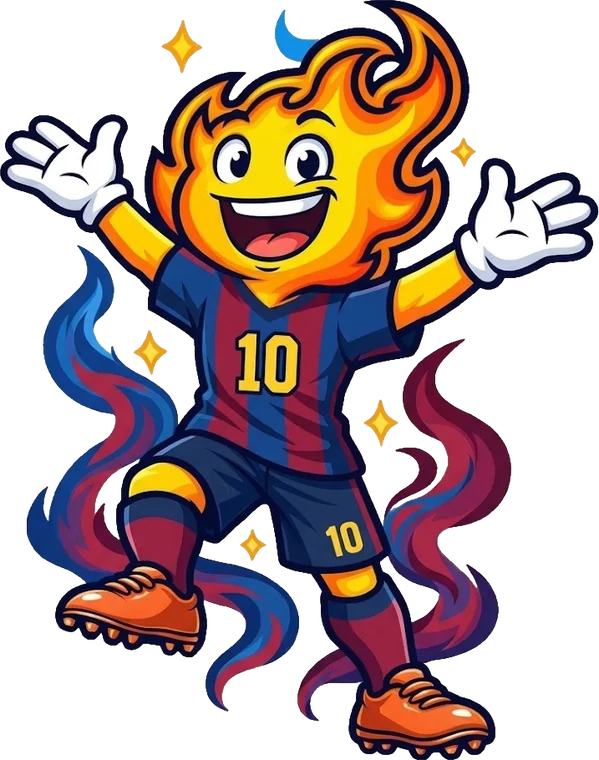
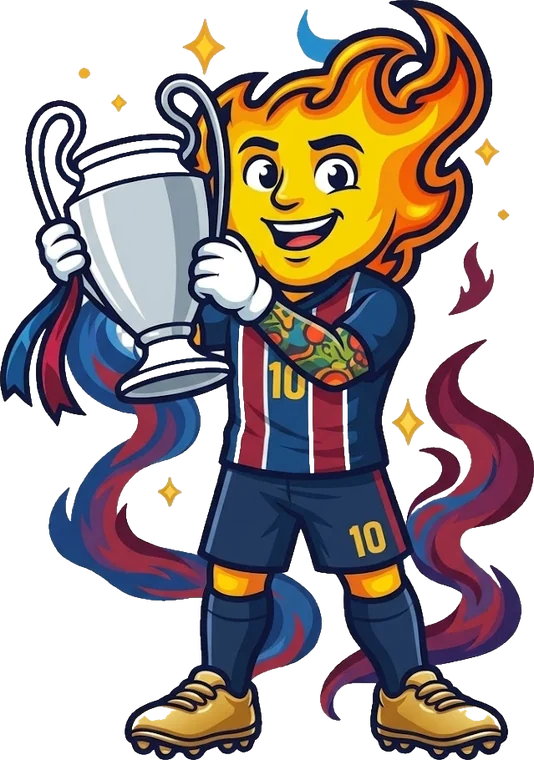
Square GOAT or BOAT board with a stop button, new M10 art and poster
Cards sit along the four edges of a square board (spare corners become badges). The light speeds up,
then the player presses DỪNG to slow it onto the prize the server already picked (auto-stop after 8 s).
New art for M10 Barca 2015 (trophy) and M10 Bernabéu, and a GOAT or BOAT poster with M10 and CR7.

Claude-Session: https://claude.ai/code/session_01Gdoir5WVcTCbakTzgkp26Z

diff --git a/public/cr7-event.js b/public/cr7-event.js
@@ -19,7 +19,7 @@ function listRewards(){
  d.querySelector('button').onclick=()=>d.close();d.showModal();
 }
 
-export function offerCr7(){const a=getAccount();if(!a||!isHome()||a.cr7Event?.seen||offered.has(a.id)||offering)return;offering=true;setTimeout(()=>{offering=false;const current=getAccount();if(current?.id!==a.id||!isHome())return;const opened=document.querySelector('dialog[open]');if(opened){opened.addEventListener('close',()=>setTimeout(offerCr7,300),{once:true});return;}offered.add(a.id);const d=dialog('cr7-poster');d.innerHTML=`<button class="cr7-close" aria-label="Đóng sự kiện">×</button><div class="cr7-poster-art"><img src="/assets/events/cr7-boat/cr7-boat-popup-preview.webp" alt="Bộ sưu tập CR7 B.O.A.T"></div><h2>${BOX_NAME} · Tặng bạn 1 lượt quay</h2><p>${goatTiles().length} ô, ô nào cũng như nhau<br>Lượt đầu miễn phí · Các lượt sau ${CR7_PRICE} coin</p><button class="cr7-gold" data-enter>Quay miễn phí →</button>`;d.querySelector('.cr7-close').onclick=()=>d.close();d.querySelector('[data-enter]').onclick=()=>{d.close();openCr7Pack();};d.showModal();performRequest({op:'seeCr7Event'}).catch(()=>{offered.delete(a.id);});},650);}
+export function offerCr7(){const a=getAccount();if(!a||!isHome()||a.cr7Event?.seen||offered.has(a.id)||offering)return;offering=true;setTimeout(()=>{offering=false;const current=getAccount();if(current?.id!==a.id||!isHome())return;const opened=document.querySelector('dialog[open]');if(opened){opened.addEventListener('close',()=>setTimeout(offerCr7,300),{once:true});return;}offered.add(a.id);const d=dialog('cr7-poster');d.innerHTML=`<button class="cr7-close" aria-label="Đóng sự kiện">×</button><div class="cr7-poster-art goat-poster"><img src="/assets/events/cr7-boat/goat-or-boat-poster.webp" alt="M10 và CR7 quay lưng vào nhau"><h2 class="goat-title">GOAT<small>or</small>BOAT</h2></div><h2>Tặng bạn 1 lượt quay</h2><p>${goatTiles().length} ô, ô nào cũng như nhau<br>Lượt đầu miễn phí · Các lượt sau ${CR7_PRICE} coin</p><button class="cr7-gold" data-enter>Quay miễn phí →</button>`;d.querySelector('.cr7-close').onclick=()=>d.close();d.querySelector('[data-enter]').onclick=()=>{d.close();openCr7Pack();};d.showModal();performRequest({op:'seeCr7Event'}).catch(()=>{offered.delete(a.id);});},650);}
 
 const idle=label=>`<b class="spin-logo">${label}</b>`;
 const stepCentre=id=>{const c=characterById(id);return `<img class="spin-peek" src="${stillArt(c)}" alt="" onerror="this.remove()"><em>${esc(c.name)}</em>`;};
@@ -27,37 +27,42 @@ const stepCentre=id=>{const c=characterById(id);return `<img class="spin-peek" s
 // Shared wheel dialog. mode: {title, sub, tiles, label, cost(account,receipt), canSpin, buttonText, request(receipt), storageKey, footnote, onDone}
 function wheelDialog(mode){
  const a=getAccount();if(!a||document.querySelector('.spin-dialog[open]'))return;
- const accountId=a.id,d=dialog('cr7-pack spin-dialog '+(mode.cls||''));let pending=false,receipt=null,result=null;
+ const accountId=a.id,d=dialog('cr7-pack spin-dialog '+(mode.cls||''));let pending=false,receipt=null,result=null,canStop=false,stopNow=null;
  if(mode.storageKey){try{receipt=JSON.parse(localStorage.getItem(mode.storageKey(accountId)));if(!mode.validReceipt(receipt))receipt=null;}catch{receipt=null;}}
  d.addEventListener('cancel',e=>{if(pending)e.preventDefault();});
- d.innerHTML=`<button class="cr7-close" aria-label="Đóng">×</button><small>${mode.eyebrow}</small><h2>${mode.title}</h2><p class="spin-sub">${mode.sub}</p>${wheelHTML(mode.tiles,idle(mode.label))}<h3 class="cr7-result-name" aria-live="polite"></h3><p class="spin-msg"></p><p class="cr7-wallet"></p><button class="cr7-gold" data-open></button><button class="cr7-equip" hidden>Dùng skin vừa nhận</button><button class="cr7-list">✧ Xem tỷ lệ & hiệu ứng</button><p class="cr7-error" role="status"></p><small class="cr7-footnote">${mode.footnote}</small>`;
+ d.innerHTML=`<button class="cr7-close" aria-label="Đóng">×</button><small>${mode.eyebrow}</small><h2>${mode.title}</h2><p class="spin-sub">${mode.sub}</p>${wheelHTML(mode.tiles,idle(mode.label),mode.badge)}<h3 class="cr7-result-name" aria-live="polite"></h3><p class="spin-msg"></p><p class="cr7-wallet"></p><button class="cr7-gold" data-open></button><button class="cr7-gold spin-stop" data-stop hidden>DỪNG ✋</button><button class="cr7-equip" hidden>Dùng skin vừa nhận</button><button class="cr7-list">✧ Xem tỷ lệ & hiệu ứng</button><p class="cr7-error" role="status"></p><small class="cr7-footnote">${mode.footnote}</small>`;
  const $=s=>d.querySelector(s),centre=$('.spin-centre'),wheel=$('.spin-wheel');
  const sp=spinner(wheel,mode.tiles,{onStep:id=>{centre.innerHTML=stepCentre(id);}});
  const ui=(error='')=>{const current=getAccount();if(current?.id!==accountId){d.close();return;}
   const b=$('[data-open]'),btn=mode.button(current,receipt);
-  b.textContent=pending?'Đang quay…':btn.text;b.disabled=pending||btn.disabled;
+  b.textContent=btn.text;b.disabled=pending||btn.disabled;b.hidden=pending;const st=$('[data-stop]');st.hidden=!pending;st.disabled=!canStop;st.textContent=canStop?'DỪNG ✋':stopNow===false?'Đang dừng…':'Đang tăng tốc…';
   $('.cr7-close').disabled=pending;$('.cr7-list').disabled=pending;
   $('.cr7-wallet').textContent='Số dư: '+current.coins+' coin'+(mode.walletNote?' · '+mode.walletNote(current):'');
   $('.cr7-error').textContent=error;$('.cr7-equip').hidden=!result||pending;
  };
  $('.cr7-close').onclick=()=>d.close();$('.cr7-list').onclick=mode.list||listRewards;
+ $('[data-stop]').onclick=()=>{if(canStop&&typeof stopNow==='function')stopNow();};
  $('.cr7-equip').onclick=async e=>{e.currentTarget.disabled=true;try{await performRequest({op:'equipSkin',character:result.skin});d.close();}catch(err){e.currentTarget.disabled=false;ui(err.message);}};
  $('[data-open]').onclick=async()=>{if(pending)return;const current=getAccount();receipt??=mode.newReceipt(current);if(mode.storageKey)try{localStorage.setItem(mode.storageKey(accountId),JSON.stringify(receipt));}catch{}
-  pending=true;result=null;$('.cr7-result-name').textContent='';$('.spin-msg').textContent='';wheel.classList.remove('has-prize');ui();sp.start();const started=Date.now();
-  try{const data=await mode.request(receipt);await new Promise(r=>setTimeout(r,Math.max(0,1300-(Date.now()-started))));
+  pending=true;canStop=false;stopNow=null;result=null;$('.cr7-result-name').textContent='';$('.spin-msg').textContent='';wheel.classList.remove('has-prize');ui();
+  try{const [data]=await Promise.all([mode.request(receipt),sp.start()]);
+   // full speed and the prize is known: now the player may press DỪNG (or it stops by itself after 8 s)
+   canStop=true;ui();$('[data-stop]').focus();
+   await new Promise(r=>{const t=setTimeout(r,8000);stopNow=()=>{clearTimeout(t);r();};});
+   canStop=false;stopNow=false;ui();
    if(getAccount()?.id!==accountId){sp.stop();d.close();return;}
    result=data.result;const tile=Number.isInteger(result.tile)?result.tile:mode.tiles.indexOf(result.skin);
    await sp.land(tile);receipt=null;if(mode.storageKey)try{localStorage.removeItem(mode.storageKey(accountId));}catch{}
    const c=characterById(result.skin);centre.innerHTML=animatedCharacter(c,'spin-prize');wheel.classList.add('has-prize');
    $('.cr7-result-name').textContent=c.name;$('.spin-msg').textContent=result.duplicate?'Bạn đã có skin này rồi (không hoàn coin).':'Skin mới đã vào bộ sưu tập!';
    celebrate(c);pending=false;ui();mode.onDone?.(result);
-  }catch(err){sp.stop();if(mode.resetOn?.test(err.message)){receipt=null;if(mode.storageKey)try{localStorage.removeItem(mode.storageKey(accountId));}catch{}}pending=false;ui(err.message+(receipt?' — Bấm lại để tiếp tục đúng lượt này, không trừ coin hai lần.':''));}
+  }catch(err){sp.stop();canStop=false;stopNow=null;if(mode.resetOn?.test(err.message)){receipt=null;if(mode.storageKey)try{localStorage.removeItem(mode.storageKey(accountId));}catch{}}pending=false;ui(err.message+(receipt?' — Bấm lại để tiếp tục đúng lượt này, không trừ coin hai lần.':''));}
  };
  ui();d.showModal();
 }
 
 export function openCr7Pack(){
- wheelDialog({eyebrow:'BELLA • VÒNG QUAY',title:BOX_NAME,label:'GOAT<small>or</small>BOAT',tiles:goatTiles(),
+ wheelDialog({eyebrow:'BELLA • VÒNG QUAY',title:BOX_NAME,label:'GOAT<small>or</small>BOAT',badge:'🐐',tiles:goatTiles(),
   sub:`${goatTiles().length} ô · ô nào cũng có cơ hội như nhau · skin dưới 10 coin chiếm 2 ô`,
   footnote:`Mỗi tài khoản được tặng 1 lượt quay. Các lượt sau ${CR7_PRICE} coin. Skin trùng không hoàn coin.`,
   storageKey:id=>'bella.'+CR7_EVENT+'.pending.'+id,validReceipt:r=>r&&typeof r.free==='boolean'&&typeof r.requestId==='string',
@@ -73,7 +78,7 @@ function listMystery(){const d=dialog('cr7-rewards');const total=MYSTERY_TIERS.r
  d.innerHTML='<button class="cr7-close" aria-label="Đóng">×</button><small>BELLA MYSTERY PACK</small><h2>Tỷ lệ gói bí ẩn</h2><p>Bốc nhóm giá theo tỷ lệ, rồi chọn đều một skin trong nhóm.</p>'+MYSTERY_TIERS.map(([p,w])=>{const skins=CHARACTERS.filter(c=>c.price===p&&!c.event);return `<h3>Skin ${p} coin · ${pct(w/total)}</h3><div class="cr7-reward-grid">${skins.map(c=>`<article style="--cr7-color:${c.color}">${art(c)}<b>${esc(c.name)}</b><span>${pct(w/total/skins.length)}</span></article>`).join('')}</div>`;}).join('');
  d.querySelector('button').onclick=()=>d.close();d.showModal();}
 export function openMysteryPack(onDone){
- wheelDialog({cls:'mystery-wheel',eyebrow:'BELLA MYSTERY PACK',title:'Ai đang chờ bạn?',label:'?',tiles:mysteryTiles(),
+ wheelDialog({cls:'mystery-wheel',eyebrow:'BELLA MYSTERY PACK',title:'Ai đang chờ bạn?',label:'?',badge:'?',tiles:mysteryTiles(),
   sub:'3 coin: 47,62% · 10 coin: 33,33% · 15 coin: 14,29% · 20 coin: 4,76%',
   footnote:'Giá 10 coin/lượt. Có thể ra skin đã sở hữu, skin trùng không hoàn coin.',list:listMystery,
   newReceipt:()=>({requestId:crypto.randomUUID()}),

diff --git a/public/spin-wheel.css b/public/spin-wheel.css
@@ -1,26 +1,34 @@
 /* Spin wheel (spin-wheel.js): tiles on a ring, a light running around them, the prize in the middle. */
-.spin-dialog{width:min(560px,96vw)}
+.spin-dialog{width:min(620px,98vw)}
+@media(max-width:480px){.spin-dialog{padding:20px 6px}.spin-wheel{gap:3px;padding:5px}}
+.spin-stop{background:linear-gradient(120deg,#ff8a7a,#e0453c,#ff9b7d)!important;color:#fff!important;font-size:18px!important;letter-spacing:.08em;animation:stop-pulse .9s ease-in-out infinite}.spin-stop:disabled{animation:none}
+@keyframes stop-pulse{50%{box-shadow:0 0 26px #ff6a55}}
 .spin-dialog h2{margin:6px 20px 2px;font-size:clamp(24px,6vw,34px);letter-spacing:.04em;background:linear-gradient(100deg,#ffe9a0,#e0ad45,#fff1c2);-webkit-background-clip:text;background-clip:text;color:transparent}
 .spin-sub{margin:0 0 6px;font-size:12px!important}
-.spin-wheel{--size:min(440px,100%);container-type:inline-size;position:relative;width:var(--size);aspect-ratio:1;margin:6px auto 0}
-.spin-track{position:absolute;inset:3%;border-radius:50%;background:radial-gradient(circle,transparent 58%,#ffffff08 59%,#ffffff12 70%,transparent 71%),radial-gradient(circle,#1d3354 0,#0a1222 72%);border:2px solid #c7a75d55;box-shadow:0 0 30px #000a inset,0 0 24px #e8b85022}
-.spin-tile{--t:min(13cqi,260cqi / var(--n));position:absolute;left:var(--x);top:var(--y);width:var(--t);height:var(--t);margin:calc(var(--t) / -2) 0 0 calc(var(--t) / -2);border-radius:50%;display:grid;place-items:center;overflow:hidden;background:radial-gradient(circle at 50% 35%,#2b3e5c,#101a2c);border:2px solid var(--rc,#8a94a6);box-shadow:0 2px 6px #0008;transition:transform .08s,box-shadow .08s;z-index:1}
-.spin-tile img{width:118%;height:118%;object-fit:contain;object-position:50% 12%;translate:0 6%;pointer-events:none}
+.spin-wheel{position:relative;display:grid;grid-template-columns:repeat(var(--s),1fr);grid-template-rows:repeat(var(--s),1fr);gap:clamp(3px,.9vw,6px);width:min(560px,100%);aspect-ratio:1;margin:8px auto 0;padding:clamp(6px,1.4vw,10px);box-sizing:border-box;border-radius:20px;background:linear-gradient(145deg,#1d3354,#0a1222);border:2px solid #c7a75d77;box-shadow:inset 0 0 30px #000a,0 0 30px #e8b85022}
+.spin-tile,.spin-badge{position:relative;border-radius:clamp(6px,1.6vw,11px);overflow:hidden;display:grid;place-items:center;min-width:0;min-height:0}
+.spin-tile{background:radial-gradient(circle at 50% 30%,color-mix(in srgb,var(--c) 35%,#22344f),#0f1828);border:2px solid var(--rc,#8a94a6);box-shadow:0 2px 6px #0008;transition:transform .07s,box-shadow .07s,filter .07s;z-index:1}
+.spin-tile img{width:135%;height:135%;max-width:none;object-fit:contain;object-position:50% 0;translate:0 16%;pointer-events:none}
+.spin-badge{background:linear-gradient(145deg,#ffe9a0,#c98f2c);color:#3e2506;font:900 clamp(16px,4.5vw,28px)/1 Georgia,serif;box-shadow:inset 0 0 0 2px #fff4cc}
 .spin-tile[data-r=rare]{--rc:#4aa3ff}.spin-tile[data-r=epic]{--rc:#b06bff}.spin-tile[data-r=gold]{--rc:#ffd34d}
-.spin-tile[data-r=boat]{--rc:#ff4d5e;box-shadow:0 0 0 2px #ffd34d88,0 2px 6px #0008}.spin-tile[data-r=goat]{--rc:#6cc4ff;box-shadow:0 0 0 2px #ffd34d88,0 2px 6px #0008}
-.spin-wheel.spinning .spin-tile:not(.lit){filter:brightness(.7)}
-.spin-tile.lit{transform:scale(1.4);z-index:3;border-color:#fff7cf;box-shadow:0 0 0 3px #ffd34d,0 0 18px 6px #ffd34dcc}
+.spin-tile[data-r=boat]{--rc:#ff4d5e;box-shadow:inset 0 0 0 2px #ffd34d99,0 2px 6px #0008}.spin-tile[data-r=goat]{--rc:#6cc4ff;box-shadow:inset 0 0 0 2px #ffd34d99,0 2px 6px #0008}
+.spin-wheel.spinning .spin-tile:not(.lit){filter:brightness(.6) saturate(.8)}
+.spin-tile.lit{transform:scale(1.18);z-index:3;border-color:#fff7cf;box-shadow:0 0 0 3px #ffd34d,0 0 18px 6px #ffd34dcc;filter:none}
 .spin-tile.won{animation:spin-won .7s ease-in-out 4}
-@keyframes spin-won{50%{transform:scale(1.6);box-shadow:0 0 0 4px #fff,0 0 30px 12px #ffd34d}}
-.spin-centre{position:absolute;inset:17%;border-radius:50%;display:grid;place-items:center;align-content:center;text-align:center;overflow:hidden;background:radial-gradient(circle,#24406a,#0c1526 70%);border:2px solid #c7a75d66;box-shadow:inset 0 0 30px #000b}
-.spin-logo{font:900 clamp(26px,9cqi,44px)/.95 Georgia,serif;color:#ffe29b;text-shadow:0 0 18px #e8b850aa;letter-spacing:.04em}
+@keyframes spin-won{50%{transform:scale(1.3);box-shadow:0 0 0 4px #fff,0 0 30px 12px #ffd34d}}
+.spin-centre{position:relative;margin:4px;border-radius:16px;display:grid;place-items:center;align-content:center;text-align:center;overflow:hidden;background:radial-gradient(circle,#24406a,#0c1526 75%);border:2px solid #c7a75d66;box-shadow:inset 0 0 30px #000b;min-height:0}
+.spin-logo{font:900 clamp(30px,10vw,58px)/.95 Georgia,serif;color:#ffe29b;text-shadow:0 0 18px #e8b850aa;letter-spacing:.04em}
 .spin-logo small{display:block;margin:4px 0;font:italic 600 .42em/1 Georgia,serif;color:#c5cfe0;letter-spacing:.1em}
-.mystery-wheel .spin-logo{font-size:clamp(60px,22cqi,110px);color:#e7c9ff;text-shadow:0 0 22px #c591ef}
-.spin-peek{width:62%;height:62%;object-fit:contain}
-.spin-centre em{display:block;margin-top:2px;font-style:normal;font-weight:800;font-size:clamp(11px,3.4cqi,15px);color:#fff3d6}
+.mystery-wheel .spin-logo{font-size:clamp(60px,20vw,120px);color:#e7c9ff;text-shadow:0 0 22px #c591ef}
+.spin-peek{width:82%;height:76%;object-fit:contain}
+.spin-centre em{display:block;margin-top:2px;font-style:normal;font-weight:800;font-size:clamp(12px,3.6vw,17px);color:#fff3d6}
 .spin-prize{width:100%;height:100%;animation:cr7-prize .8s cubic-bezier(.2,.7,.2,1)}
-.spin-wheel.has-prize .spin-centre{inset:9%;z-index:4;background:radial-gradient(circle,#3a5a8c,#0c1526 72%);box-shadow:0 0 40px #ffd34d55,inset 0 0 30px #000b}
+.spin-wheel.has-prize .spin-centre{z-index:4;background:radial-gradient(circle,#3a5a8c,#0c1526 72%);box-shadow:0 0 40px #ffd34d55,inset 0 0 30px #000b}
 .spin-dialog .cr7-result-name{min-height:1.2em;margin:10px 0 2px}
 .spin-dialog .spin-msg{margin:0;min-height:1.4em}
 @media(prefers-reduced-motion:reduce){.spin-tile.won,.spin-prize{animation:none}}
 .spin-dialog [hidden]{display:none!important}
+
+.goat-poster{position:relative}
+.cr7-dialog .goat-title{position:absolute;top:4%;left:0;right:0;margin:0!important;text-align:center;font:900 clamp(44px,13vw,72px)/.9 Georgia,serif;letter-spacing:.04em;background:linear-gradient(180deg,#fff6d0,#f2c14e 55%,#b9802a);-webkit-background-clip:text;background-clip:text;color:transparent;filter:drop-shadow(0 4px 0 #3a2208) drop-shadow(0 0 18px #000c)}
+.goat-title small{display:block;font:italic 700 .38em/1.3 Georgia,serif;letter-spacing:.2em}

diff --git a/public/spin-wheel.js b/public/spin-wheel.js
@@ -1,10 +1,11 @@
-// A ring of reward tiles with a light that runs around it and stops on the prize.
-// The prize is always decided by the server; the wheel only shows it. The light keeps running fast while
-// the server answers, then goes about two more laps, slowing down, and stops exactly on the given tile.
+// A square board of reward cards along the four edges, with a light that runs around it.
+// The player presses Quay: the light speeds up, runs at full speed, and the player presses Dừng to slow it
+// down onto the prize. The prize is decided by the server when the spin starts; pressing Dừng only decides
+// when the light starts slowing down, so timing the press cannot change what you win.
 import {characterById} from './characters.js';
 import {playSound,chipRain} from './pot-fx.js';
 const esc=s=>String(s).replace(/[&<>"']/g,c=>({'&':'&amp;','<':'&lt;','>':'&gt;','"':'&quot;',"'":'&#39;'}[c]));
-// still picture of a skin (the animated versions are too heavy for 35 tiles)
+// still picture of a skin (the animated versions are too heavy for 35 cards)
 export function stillArt(c){
  if(c.id.startsWith('goat-'))return `/assets/events/goat/${c.id}.webp`;
  if(c.id.startsWith('cr7-'))return `/assets/events/cr7-boat/${c.id}-clean.webp`;
@@ -13,30 +14,41 @@ export function stillArt(c){
 export const rarity=c=>c.id.startsWith('goat-')?'goat':c.id.startsWith('cr7-')?'boat':c.price>=20?'gold':c.price>=15?'epic':c.price>=10?'rare':'common';
 export const isJackpot=c=>['goat','boat','gold'].includes(rarity(c));
 
-export function wheelHTML(tiles,centre=''){
- const n=tiles.length;
- return `<div class="spin-wheel" style="--n:${n}"><div class="spin-track" aria-hidden="true"></div>${tiles.map((id,i)=>{const c=characterById(id),a=i/n*2*Math.PI-Math.PI/2;
-  return `<span class="spin-tile" data-r="${rarity(c)}" data-i="${i}" style="--x:${(50+Math.cos(a)*44).toFixed(2)}%;--y:${(50+Math.sin(a)*44).toFixed(2)}%;--c:${c.color}" title="${esc(c.name)}"><img src="${stillArt(c)}" alt="" loading="lazy" onerror="this.remove()"></span>`;}).join('')}<div class="spin-centre">${centre}</div></div>`;
+// Cells of an s×s square's edge, clockwise from the top-left corner.
+function edge(s){const out=[];for(let c=0;c<s;c++)out.push([0,c]);for(let r=1;r<s;r++)out.push([r,s-1]);for(let c=s-2;c>=0;c--)out.push([s-1,c]);for(let r=s-2;r>0;r--)out.push([r,0]);return out;}
+export function wheelHTML(tiles,centre='',badge='★'){
+ const n=tiles.length;let s=3;while(4*(s-1)<n)s++;
+ const cells=edge(s),spare=cells.length-n,corners=[0,s-1,2*(s-1),3*(s-1)].slice(0,spare);  // leftover corners become badges
+ let k=0;const html=cells.map(([r,c],i)=>{const pos=`grid-area:${r+1}/${c+1}`;
+  if(corners.includes(i))return `<span class="spin-badge" style="${pos}" aria-hidden="true">${badge}</span>`;
+  const id=tiles[k],ch=characterById(id),j=k++;
+  return `<span class="spin-tile" data-r="${rarity(ch)}" data-i="${j}" style="${pos};--c:${ch.color}" title="${esc(ch.name)}"><img src="${stillArt(ch)}" alt="" loading="lazy" onerror="this.remove()"></span>`;}).join('');
+ return `<div class="spin-wheel" style="--s:${s}">${html}<div class="spin-centre" style="grid-area:2/2/${s}/${s}">${centre}</div></div>`;
 }
 
 export function spinner(root,tiles,{onStep}={}){
- const els=[...root.querySelectorAll('.spin-tile')],n=els.length,reduced=matchMedia('(prefers-reduced-motion: reduce)').matches;
- let pos=0,timer=null,stopped=false;
+ const els=[...root.querySelectorAll('.spin-tile')].sort((a,b)=>a.dataset.i-b.dataset.i),n=els.length,reduced=matchMedia('(prefers-reduced-motion: reduce)').matches;
+ let pos=0,timer=null,running=false;
  const light=i=>{els.forEach(e=>e.classList.remove('lit'));els[i].classList.add('lit');onStep?.(tiles[i],i);};
- const step=()=>{pos=(pos+1)%n;light(pos);playSound('one',{volume:.18});};
+ const step=()=>{pos=(pos+1)%n;light(pos);playSound('one',{volume:.16});};
+ const TOP=55;
  return {
-  start(){stopped=false;root.classList.add('spinning');root.querySelectorAll('.won').forEach(e=>e.classList.remove('won'));if(reduced){light(pos);return;}const loop=()=>{if(stopped)return;step();timer=setTimeout(loop,60);};loop();},
-  // lands on tile `target`; resolves when the light has stopped
-  land(target){stopped=true;clearTimeout(timer);
+  // speeds up from a slow crawl to full speed; resolves once full speed is reached
+  start(){running=true;root.classList.add('spinning');root.querySelectorAll('.won').forEach(e=>e.classList.remove('won'));
+   if(reduced){light(pos);return Promise.resolve();}
+   return new Promise(atTop=>{let k=0;const loop=()=>{if(!running)return;step();k++;const t=Math.min(1,k/14),wait=TOP+(1-t)*(1-t)*300;if(k===14)atTop();timer=setTimeout(loop,wait);};loop();});
+  },
+  // slows down onto tile `target`; resolves when the light has stopped
+  land(target){running=false;clearTimeout(timer);
    return new Promise(done=>{
     const finish=()=>{light(target);root.classList.remove('spinning');els[target].classList.add('won');playSound('win',{volume:.8});done();};
     if(reduced){pos=target;finish();return;}
-    const steps=((target-pos+n)%n)+n*2;let k=0;
-    const next=()=>{k++;if(k>=steps){pos=target;finish();return;}step();const t=k/steps;timer=setTimeout(next,60+Math.pow(t,3)*420);};
-    timer=setTimeout(next,60);
+    const steps=((target-pos+n)%n)+n;let k=0;
+    const next=()=>{k++;if(k>=steps){pos=target;finish();return;}step();const t=k/steps;timer=setTimeout(next,TOP+Math.pow(t,2.6)*480);};
+    timer=setTimeout(next,TOP);
    });
   },
-  stop(){stopped=true;clearTimeout(timer);root.classList.remove('spinning');}
+  stop(){running=false;clearTimeout(timer);root.classList.remove('spinning');}
  };
 }
 export function celebrate(c){if(isJackpot(c))chipRain({full:true,volume:.6});}

diff --git a/public/characters.js b/public/characters.js
@@ -21,6 +21,6 @@ export const CHARACTERS = [
  {id:'son-tung-mtp',name:'Sơn Tùng MTP',color:'#c7bbff',tag:'Spotlight · Sân khấu ánh sao',locked:true,price:20,effect:'music'},
  ...[['mu','CR7 MU','#ff443d'],['sporting','CR7 Sporting','#55ef99'],['real','CR7 Real','#b3dfff'],['al-nassr','CR7 Al Nassr','#ffd64d']].map(([id,name,color])=>({id:'cr7-'+id,name,color,tag:'B.O.A.T · Độc quyền pack',price:null,locked:true,event:'cr7-boat-v1',effect:'football'})),
  // GOAT skins: only from the GOAT or BOAT box (art in /assets/events/goat/, effects in goat-motion.js)
- ...[['goat-m10-barca-2015','M10 Barca 2015','#2f5fc4','Big Time · 30.05.2015'],['goat-m10-bernabeu','M10 Bernabéu','#c4304f','Big Time · 23.04.2017'],['goat-m10-paris','M10 Paris','#3d5bb5','GOAT · Paris'],['goat-m10-miami','M10 Miami','#ff5fae','GOAT · Miami'],['goat-neymar-samba','Neymar Samba','#ffd43b','Samba · Số 10']].map(([id,name,color,tag])=>({id,name,color,tag,price:null,locked:true,event:'cr7-boat-v1',effect:'football'}))
+ ...[['goat-m10-barca-2015','M10 Barca 2015','#2f5fc4','Big Time · 06.06.2015'],['goat-m10-bernabeu','M10 Bernabéu','#c4304f','Big Time · 23.04.2017'],['goat-m10-paris','M10 Paris','#3d5bb5','GOAT · Paris'],['goat-m10-miami','M10 Miami','#ff5fae','GOAT · Miami'],['goat-neymar-samba','Neymar Samba','#ffd43b','Samba · Số 10']].map(([id,name,color,tag])=>({id,name,color,tag,price:null,locked:true,event:'cr7-boat-v1',effect:'football'}))
 ];
 export const characterById = id => CHARACTERS.find(c=>c.id===id)||CHARACTERS.find(c=>c.id===DEFAULT_CHARACTER);

diff --git a/public/goat-motion.js b/public/goat-motion.js
@@ -3,7 +3,7 @@
 // a name plate at the feet. The two Barca versions get an eFootball "Big Time" style plate with the match date.
 const esc=s=>String(s).replace(/[&<>"']/g,c=>({'&':'&amp;','<':'&lt;','>':'&gt;','"':'&quot;',"'":'&#39;'}[c]));
 export const GOAT_ART={
- 'goat-m10-barca-2015':{w:599,scene:'blaugrana',plate:{kind:'bigtime',name:'M10 · BARCA',date:'30.05.2015'}},
+ 'goat-m10-barca-2015':{w:534,scene:'blaugrana',plate:{kind:'bigtime',name:'M10 · BARCA',date:'06.06.2015'}},
  'goat-m10-bernabeu':{w:596,scene:'spotlight',plate:{kind:'bigtime',name:'M10 · EL CLÁSICO',date:'23.04.2017'}},
  'goat-m10-paris':{w:485,scene:'paris',plate:{kind:'goat',name:'M10 · PARIS'}},
  'goat-m10-miami':{w:698,scene:'miami',plate:{kind:'goat',name:'M10 · MIAMI'}},
